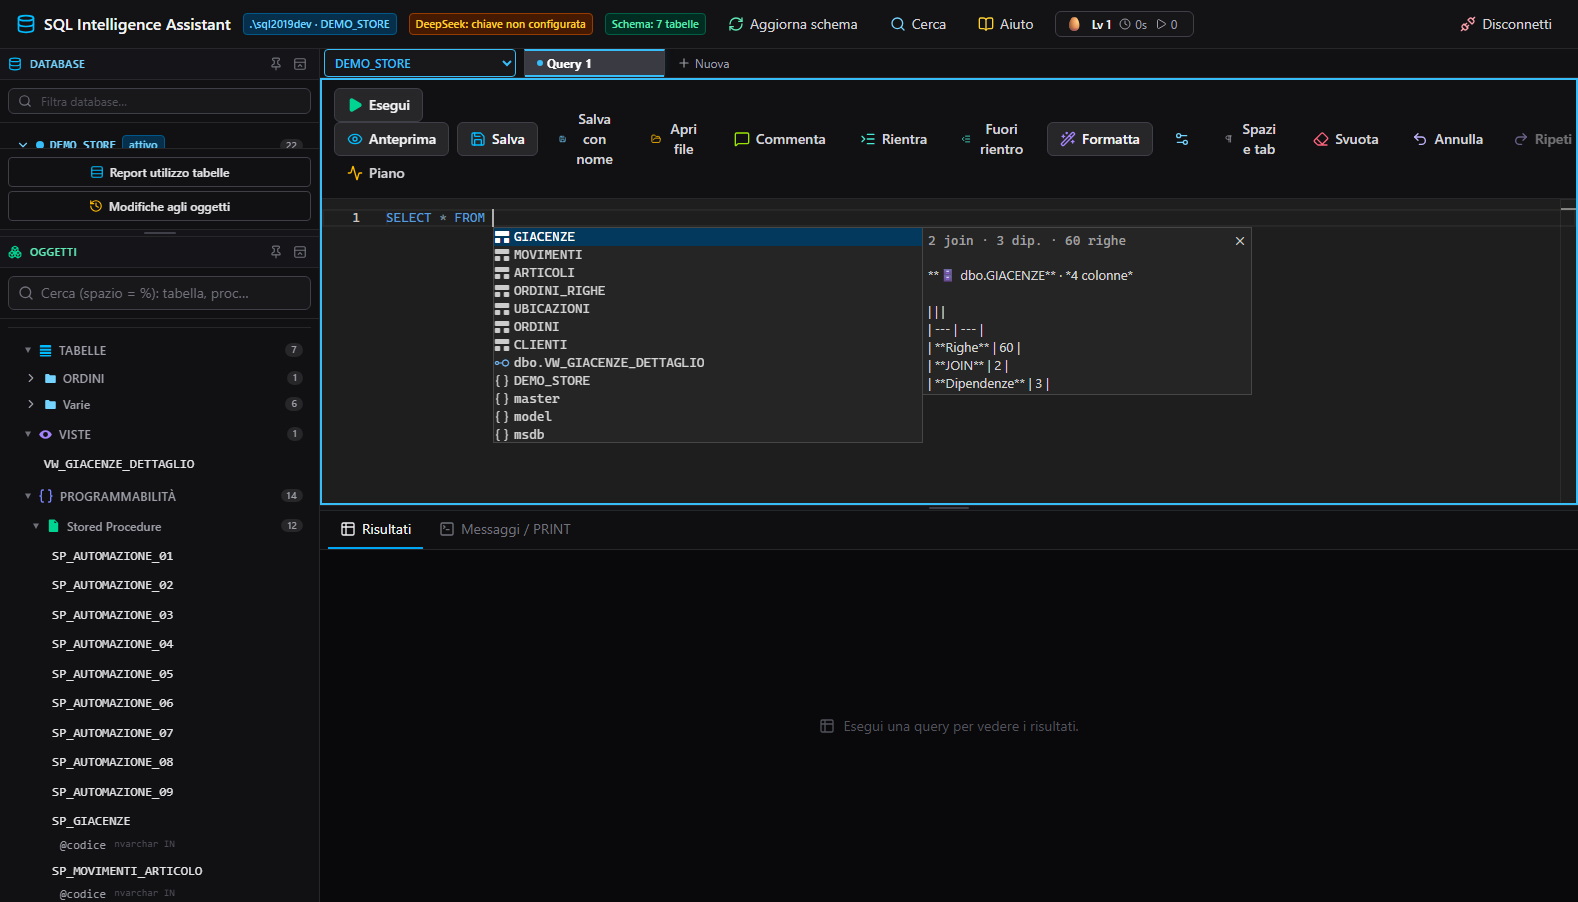
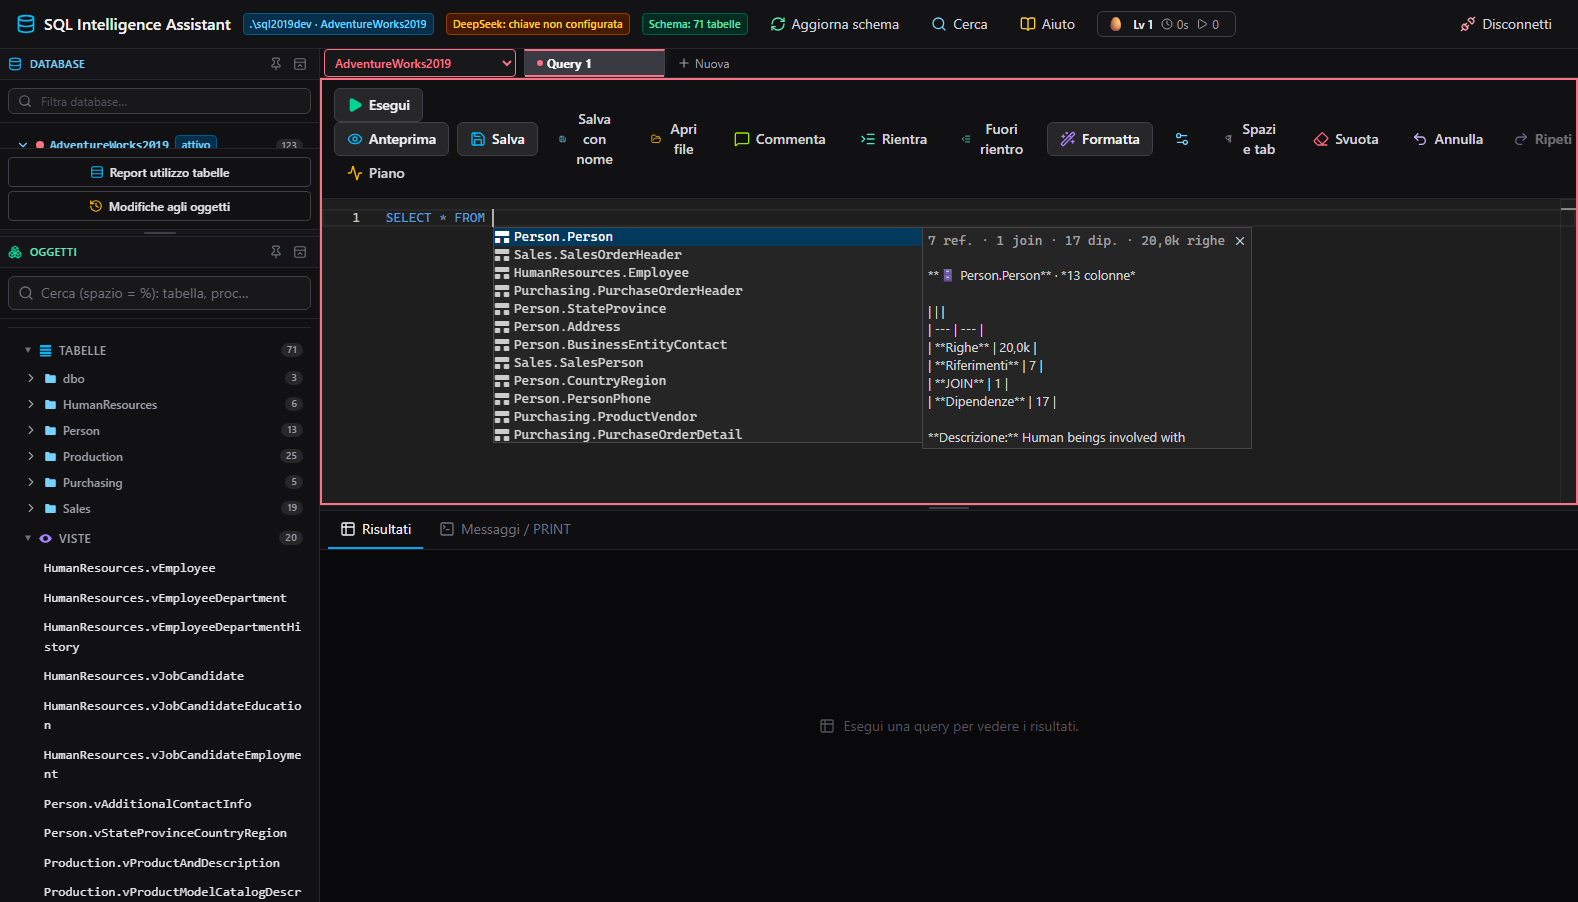
AdventureWorks2019: screenshot del README su schema Microsoft, verifiche su script CREATE e grafo, giro di prestazioni
Tre dei quattro lavori concordati con l'utente (il quarto, la pulizia dei nomi reali nei test, ha una
dimensione misurata: vedi sotto).

1) SCREENSHOT DEL README SU ADVENTUREWORKS2019
   Le 5 immagini sono rifatte sul database Microsoft (schemi Sales/Person/Production/Purchasing/
   HumanResources): diagramma delle chiamate su dbo.uspLogError con 12 nodi e 11 legami (i suoi 11
   chiamanti reali). README aggiornato (italiano e inglese) con il comando di rigenerazione;
   scripts/demo-db.sql resta come alternativa senza AdventureWorks.

2) VERIFICHE SU SCRIPT CREATE (nuova modalità --verify-aw-script, 11 controlli)
   Confronto dello script CREATE TABLE generato per Sales.SalesOrderHeader con i cataloghi UFFICIALI:
   26 colonne nello stesso ordine, 5 indici con le colonne chiave, 8 FK, 9 default, 2 check, e il
   trigger Sales.uSalesOrderHeader in coda con il CORPO vero del database.

3) DIAGRAMMA DELLE CHIAMATE SU DATI REALI (nuova modalità --verify-aw-grafo, 5 controlli)
   dbo.uspLogError: il diagramma disegna 12 nodi e riporta 11 chiamanti, con i nomi del database
   (HumanResources.uspUpdateEmployeeHireInfo/Login/PersonalInfo, Production.iWorkOrder/uWorkOrder,
   Purchasing.dVendor/iPurchaseOrderDetail/uPurchaseOrderHeader, Sales.iduSalesOrderDetail/
   uSalesOrderHeader): 11/11 nomi verificati.

4) GIRO DI PRESTAZIONI (AdventureWorks2019 vs il database di produzione, misura HTTP)
[…]

diff --git a/README.md b/README.md
@@ -27,16 +27,25 @@ statement dai risultati, **diagramma delle chiamate fra routine** e assistente I
 Gli screenshot si rigenerano con `node scripts/capture-screenshots.mjs` (backend e dev server attivi):
 pilota Chrome headless via CDP e salva i PNG in `docs/screenshots/`.
 
-Le immagini usano un **database dimostrativo con nomi inventati** (nessun nome reale di database,
-tabella o query finisce su git): `scripts/demo-db.sql` crea `DEMO_STORE` con tabelle `ARTICOLI`,
-`ORDINI`, `UBICAZIONI`, `GIACENZE`… e una catena di procedure per il diagramma delle chiamate.
+Le immagini sono prese su **AdventureWorks2019** (il database di esempio pubblico Microsoft): nessun nome
+reale di database, tabella o query di produzione finisce su git.
 
 ```powershell
-node scripts/capture-screenshots.mjs --setup-demo=scripts/demo-db.sql   # crea/rifà DEMO_STORE
-$env:SHOT_DB = 'DEMO_STORE'
-$env:SHOT_ROUTINE = 'SP_AUTOMAZIONE_09'
+$env:SHOT_DB = 'AdventureWorks2019'
+$env:SHOT_ROUTINE = 'uspLogError'   # 11 chiamanti: buon diagramma delle chiamate
+$env:SHOT_QUERY = @"
+SELECT TOP 25 S.SalesOrderID, S.OrderDate, S.TotalDue, C.AccountNumber
+FROM Sales.SalesOrderHeader AS S
+  INNER JOIN Sales.Customer AS C ON C.CustomerID = S.CustomerID
+WHERE S.TotalDue > 1000
+ORDER BY S.TotalDue DESC;
+"@
 node scripts/capture-screenshots.mjs
 ```
+
+Se AdventureWorks non è disponibile, `scripts/demo-db.sql` crea un `DEMO_STORE` equivalente con nomi
+inventati (`node scripts/capture-screenshots.mjs --setup-demo=scripts/demo-db.sql`, poi
+`SHOT_DB=DEMO_STORE` e `SHOT_ROUTINE=SP_AUTOMAZIONE_09`).
 
 ---
 
@@ -360,16 +369,25 @@ query results, a **routine call graph** and an optional AI assistant.
 Regenerate them with `node scripts/capture-screenshots.mjs` (backend and dev server running): it drives
 headless Chrome over CDP and writes the PNGs to `docs/screenshots/`.
 
-The images are taken on a **demo database with made-up names** (no real database, table or query name
-ends up in git): `scripts/demo-db.sql` creates `DEMO_STORE` with `ARTICOLI`, `ORDINI`, `UBICAZIONI`,
-`GIACENZE`… plus a chain of procedures for the call graph.
+The images are taken on **AdventureWorks2019** (the public Microsoft sample database): no real
+production database, table or query name ends up in git.
 
 ```powershell
-node scripts/capture-screenshots.mjs --setup-demo=scripts/demo-db.sql   # create/refresh DEMO_STORE
-$env:SHOT_DB = 'DEMO_STORE'
-$env:SHOT_ROUTINE = 'SP_AUTOMAZIONE_09'
+$env:SHOT_DB = 'AdventureWorks2019'
+$env:SHOT_ROUTINE = 'uspLogError'   # 11 callers: a good call graph
+$env:SHOT_QUERY = @"
+SELECT TOP 25 S.SalesOrderID, S.OrderDate, S.TotalDue, C.AccountNumber
+FROM Sales.SalesOrderHeader AS S
+  INNER JOIN Sales.Customer AS C ON C.CustomerID = S.CustomerID
+WHERE S.TotalDue > 1000
+ORDER BY S.TotalDue DESC;
+"@
 node scripts/capture-screenshots.mjs
 ```
+
+If AdventureWorks is not available, `scripts/demo-db.sql` builds an equivalent `DEMO_STORE` with
+made-up names (`node scripts/capture-screenshots.mjs --setup-demo=scripts/demo-db.sql`, then
+`SHOT_DB=DEMO_STORE` and `SHOT_ROUTINE=SP_AUTOMAZIONE_09`).
 
 ## Features
 
